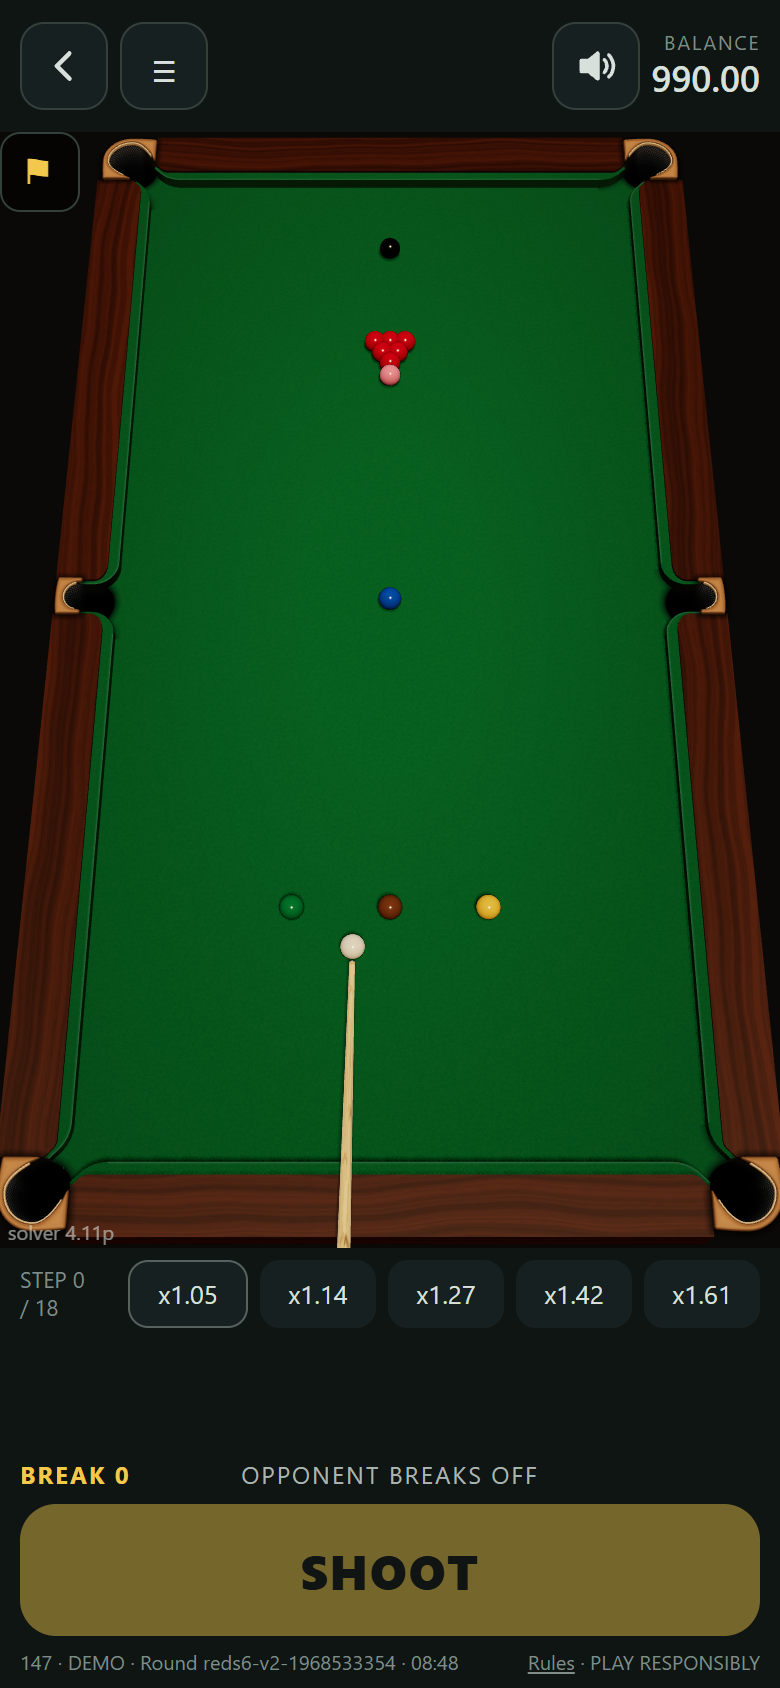
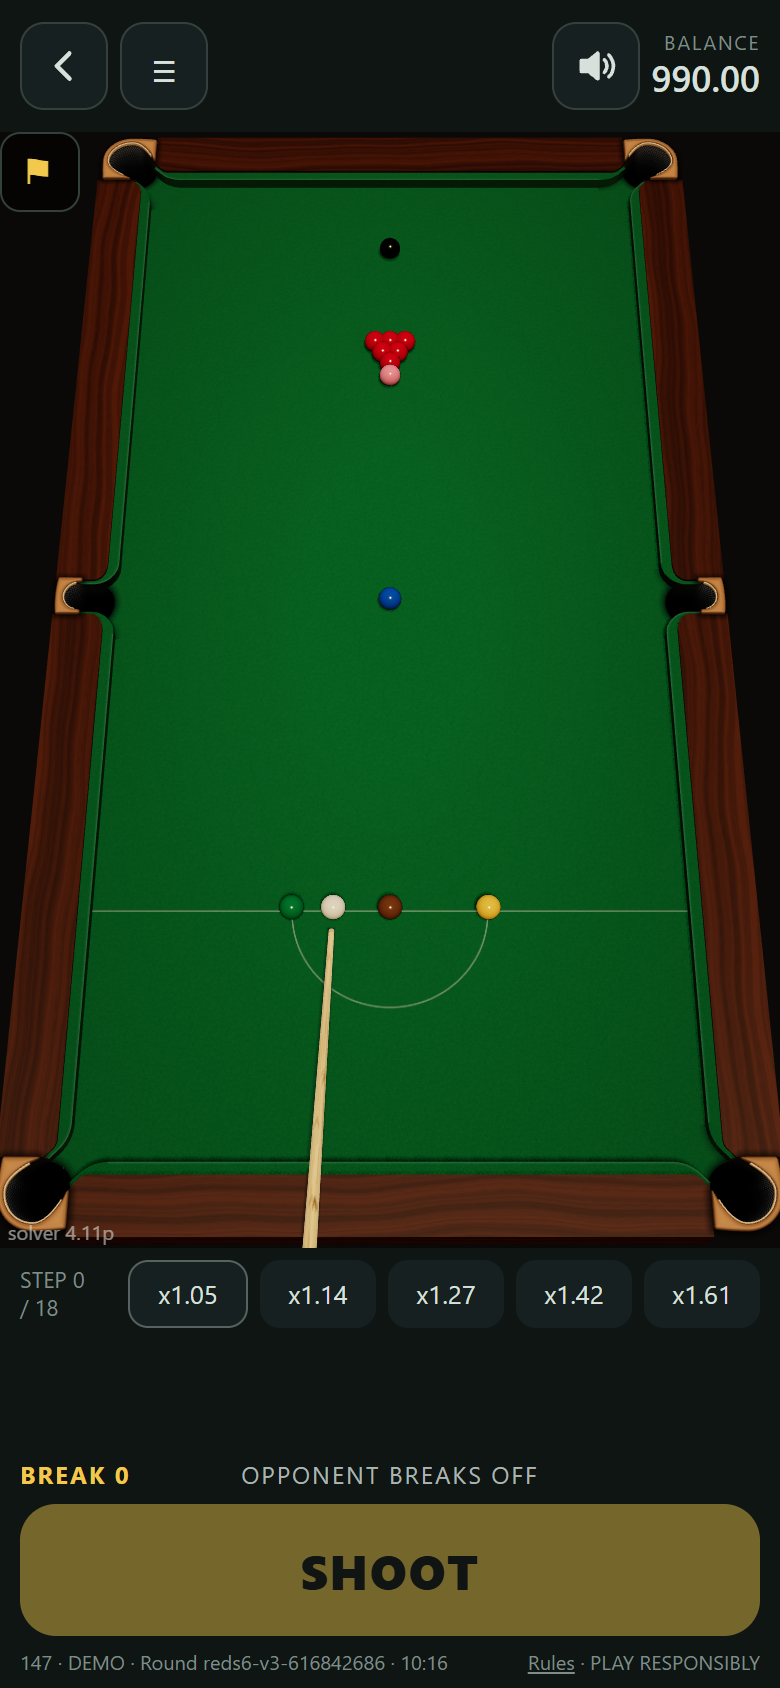
Frame time (night 6): the markings layer covers only the baulk/D band and the three top spots (not the whole bed); frame-time script presses SHOOT for step 1 (it hung since step 1 waits) and has FT_AB=1 (club with vs without markings, interleaved; dev ?marks=0)
Interleaved A/B: markings +7.2% mean frame interval, median 16.7 ms both, frames over 33 ms 159 vs 158.
Club vs grey was +18% to +43% across runs: another project's processes kept the PC 62% busy, so not reliable.
Break-off pictures retaken on v3 rounds (cue ball on the baulk line).

diff --git a/src/view/tableLook.ts b/src/view/tableLook.ts
@@ -310,21 +310,30 @@ function noiseTexture(base, amount, size = 256, grain = false) {
 // one transparent picture laid over the bed with the same metre-based mapping as the edge shading. Positions come from
 // the table geometry (the spots the rules use). The picture is drawn at CONFIG.view3d.markings.pxPerM with mipmaps
 // and anisotropy, so a line a few millimetres wide stays smooth and steady at phone size.
-function markingsTexture(maxAniso) {
-  const M = CONFIG.view3d.markings, W = Math.round(2 * hw * M.pxPerM), Hh = Math.round(2 * hl * M.pxPerM);
-  const c = document.createElement('canvas'); c.width = W; c.height = Hh;
-  const g = c.getContext('2d');
-  const px = (x) => (x + hw) * M.pxPerM, py = (y) => (hl - y) * M.pxPerM; // canvas top = the black end (+y)
-  g.strokeStyle = g.fillStyle = `rgba(${M.colour}, ${M.alpha})`;
-  g.lineWidth = M.lineWidth * M.pxPerM;
-  g.beginPath(); g.moveTo(0, py(table.baulkY)); g.lineTo(W, py(table.baulkY)); g.stroke(); // baulk line, cushion to cushion
-  // the D: half circle on the baulk line, on the baulk-cushion side (-y = down on the canvas)
-  g.beginPath(); g.arc(px(table.dCentre.x), py(table.dCentre.y), table.dRadius * M.pxPerM, 0, Math.PI, false); g.stroke();
-  for (const s of Object.values(table.spots)) { g.beginPath(); g.arc(px(s.x), py(s.y), M.spotRadius * M.pxPerM, 0, 2 * Math.PI); g.fill(); }
-  const t = new THREE.CanvasTexture(c); t.colorSpace = THREE.SRGBColorSpace;
-  t.generateMipmaps = true; t.minFilter = THREE.LinearMipmapLinearFilter; t.anisotropy = maxAniso;
-  t.repeat.set(1 / (2 * hw), 1 / (2 * hl)); t.offset.set(0.5, 0.5);
-  return t;
+// Night 6 (frame time): the picture covers only where there are marks: the band of the baulk line and the D, and a
+// small square round each of the blue, pink and black spots. A layer over the whole bed cost about 6% frame time.
+function markingsPieces(maxAniso) {
+  const M = CONFIG.view3d.markings, pad = 0.02;
+  const draw = (g, px, py, W) => {
+    g.strokeStyle = g.fillStyle = `rgba(${M.colour}, ${M.alpha})`;
+    g.lineWidth = M.lineWidth * M.pxPerM;
+    g.beginPath(); g.moveTo(0, py(table.baulkY)); g.lineTo(W, py(table.baulkY)); g.stroke(); // baulk line, cushion to cushion
+    // the D: half circle on the baulk line, on the baulk-cushion side (-y = down on the canvas)
+    g.beginPath(); g.arc(px(table.dCentre.x), py(table.dCentre.y), table.dRadius * M.pxPerM, 0, Math.PI, false); g.stroke();
+    for (const s of Object.values(table.spots)) { g.beginPath(); g.arc(px(s.x), py(s.y), M.spotRadius * M.pxPerM, 0, 2 * Math.PI); g.fill(); }
+  };
+  const piece = (x0, x1, y0, y1) => { // one textured rectangle of the bed, [x0,x1] x [y0,y1] in table metres
+    const W = Math.round((x1 - x0) * M.pxPerM), Hh = Math.round((y1 - y0) * M.pxPerM);
+    const c = document.createElement('canvas'); c.width = W; c.height = Hh;
+    draw(c.getContext('2d'), (x) => (x - x0) * M.pxPerM, (y) => (y1 - y) * M.pxPerM, W);
+    const t = new THREE.CanvasTexture(c); t.colorSpace = THREE.SRGBColorSpace;
+    t.generateMipmaps = true; t.minFilter = THREE.LinearMipmapLinearFilter; t.anisotropy = maxAniso;
+    const geo = new THREE.PlaneGeometry(x1 - x0, y1 - y0); geo.translate((x0 + x1) / 2, (y0 + y1) / 2, 0);
+    return { geo, map: t };
+  };
+  const sp = table.spots, q = M.spotRadius + pad;
+  return [piece(-hw, hw, table.baulkY - table.dRadius - pad, table.baulkY + pad),
+    ...[sp.blue, sp.pink, sp.black].map((s) => piece(s.x - q, s.x + q, s.y - q, s.y + q))];
 }
 function vignette(strength) {
   const c = document.createElement('canvas'); c.width = c.height = 256;
@@ -479,9 +488,12 @@ function buildNew(mode, sc, withLamp = true) {
   const vt = vignette(EDGE_DARK); vt.repeat.set(1 / (2 * hw), 1 / (2 * hl)); vt.offset.set(0.5, 0.5);
   const vigMat = new THREE.MeshBasicMaterial({ map: vt, transparent: true, depthWrite: false });
   // table markings: between the cloth and the edge shading (so the shading and the ball shadows lie on them too)
-  const markMat = new THREE.MeshStandardMaterial({ map: markingsTexture(8), transparent: true, depthWrite: false, roughness: 0.95,
-    polygonOffset: true, polygonOffsetFactor: -1, polygonOffsetUnits: -1 });
-  const marks = new THREE.Mesh(bedGeo, markMat); marks.position.z = 0.0002; marks.receiveShadow = true; marks.renderOrder = 0.5; sc.add(marks);
+  // (dev: ?marks=0 leaves them out, for frame-time comparisons)
+  if (!/marks=0/.test(location.search)) for (const { geo, map } of markingsPieces(8)) {
+    const markMat = new THREE.MeshStandardMaterial({ map, transparent: true, depthWrite: false, roughness: 0.95,
+      polygonOffset: true, polygonOffsetFactor: -1, polygonOffsetUnits: -1 });
+    const marks = new THREE.Mesh(geo, markMat); marks.position.z = 0.0002; marks.receiveShadow = true; marks.renderOrder = 0.5; sc.add(marks);
+  }
   const vig = new THREE.Mesh(bedGeo, vigMat); vig.position.z = 0.0005; vig.renderOrder = 1; sc.add(vig);
 
   const extrude = (pts, depth, mat, z0, bevel = 0) => {
